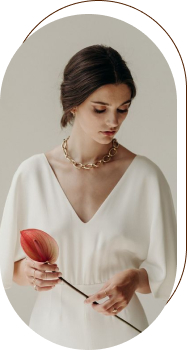
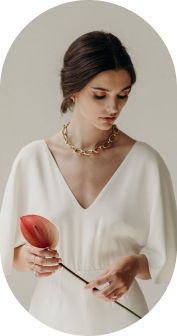
Add files via upload

diff --git a/lesson_7/index.html b/lesson_7/index.html
@@ -168,8 +168,12 @@
 				<p>Lorem ipsum dolor sit amet, conse elit, sedid do eiusmod tempor incidi ut labore et dolore magna aliqua. Quis ipsum usendi laboris mollit</p>
 			</div>
 			<div class="custom-jewels-img">
-				<div class="custom-jewels-img-wrapper"><img class="img-woman-flower" src="img/image-03.jpg" alt="woman with a flower"></div>
-				<div class="custom-jewels-img-wrapper"><img class="img-woman-suit" src="img/image-04.jpg" alt="a woman in a suit"></div>
+				<div class="custom-jewels-img-wrapper img-woman-flower">
+					<img class="img-woman-flower" src="img/image-03.jpg" alt="woman with a flower">
+				</div>
+				<div class="custom-jewels-img-wrapper img-woman-suit">
+					<img class="img-woman-suit" src="img/image-04.jpg" alt="a woman in a suit">
+				</div>
 			</div>
 		</div>
 

diff --git a/lesson_7/css/style.css b/lesson_7/css/style.css
@@ -335,12 +335,27 @@ body{
 .custom-jewels-img-wrapper{
 	vertical-align: middle;
 	display: inline-block;
+	border: 1px solid #502203;
+	border-radius: 235px;
 }
+.custom-jewels-img-wrapper img{
+	border-radius: 235px;
+}
+
 .img-woman-flower {
-	max-width: 187px;
-	margin-right: 20px;
-	/* margin-bottom: 84px; */
+	margin-right: 30px;
+	width: 177px;
+	height: 336px;
+}
+.img-woman-flower img{
+	margin-left: -10px;
+	padding-top: 14px;
 }
 .img-woman-suit {
-	/* max-width: 318px; */
+	width: 307px;
+  height: 500px;
+}
+.img-woman-suit img{
+	margin-left: -11px;
+	padding-top: 19px;
 }
